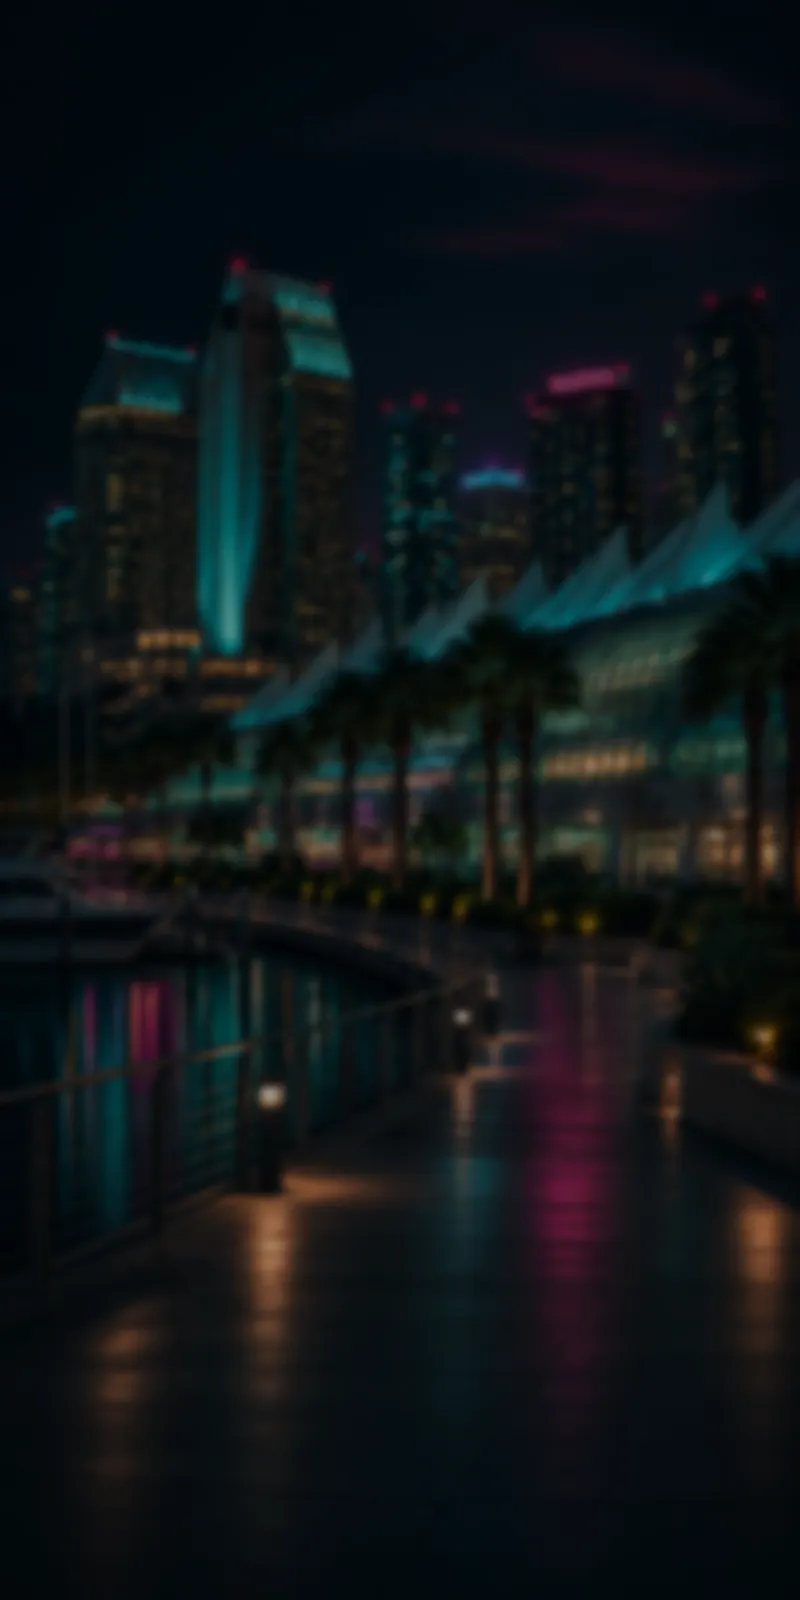
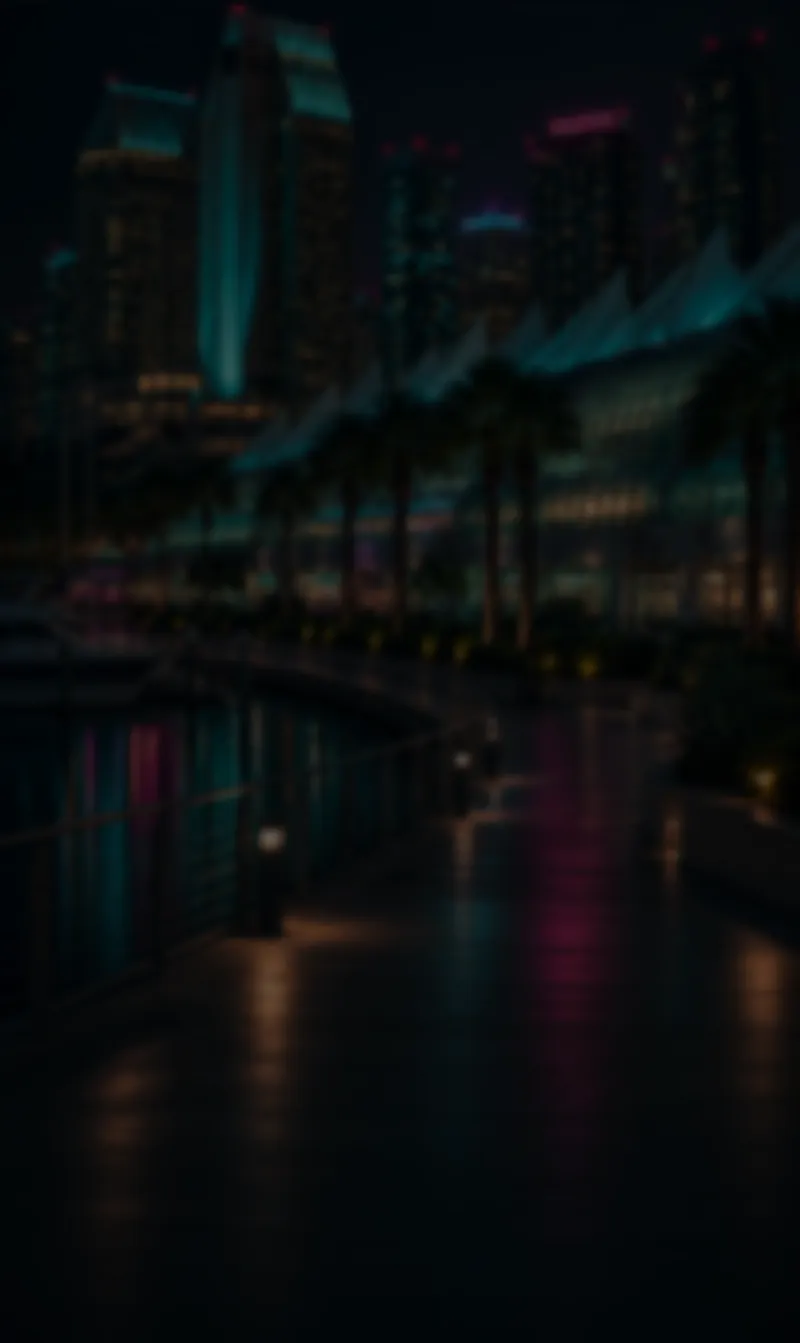
feat(profile): raise and darken the portrait rail skyline

diff --git a/assets/css/profile.css b/assets/css/profile.css
@@ -1122,13 +1122,24 @@ main, header, footer {
     opacity: 0.4;
 }
 
+/* The skyline is pushed down a fixed distance so its tower tops meet the
+   portal button at every container height, and anchored sideways at 30%,
+   where its tallest tower stands, so that tower is in view at every width.
+   The strip above the image is background-color, the image's own top-row
+   colour. */
 .image-rail {
     position: relative;
-    background-image: url('../../assets/images/profile-rail-background.webp?v=1.0.0');
+    background-image: url('../../assets/images/profile-rail-background.webp?v=1.1.0');
     background-repeat: no-repeat;
-    background-position: center;
+    background-position: 30% 56px;
     background-size: cover;
-    background-color: transparent;
+    background-color: #02070c;
+}
+
+@media (max-width: 900px) {
+    .image-rail {
+        background-position: 30% 63px;
+    }
 }
 
 .rail-frame {

diff --git a/profile.html b/profile.html
@@ -14,7 +14,7 @@
   <link rel="preconnect" href="https://fonts.googleapis.com">
   <link href="https://fonts.googleapis.com/css2?family=Rajdhani:wght@400;500;600;700&family=Share+Tech+Mono&display=swap" rel="stylesheet">
   <link rel="stylesheet" href="assets/css/variables.css?v=1.3.0">
-  <link rel="stylesheet" href="assets/css/profile.css?v=1.4.9">
+  <link rel="stylesheet" href="assets/css/profile.css?v=1.4.10">
 <script>
 /* GROUP R focus containment. Arms BEFORE any control can paint: the observer
    callback is a microtask, which drains before input dispatch and before
